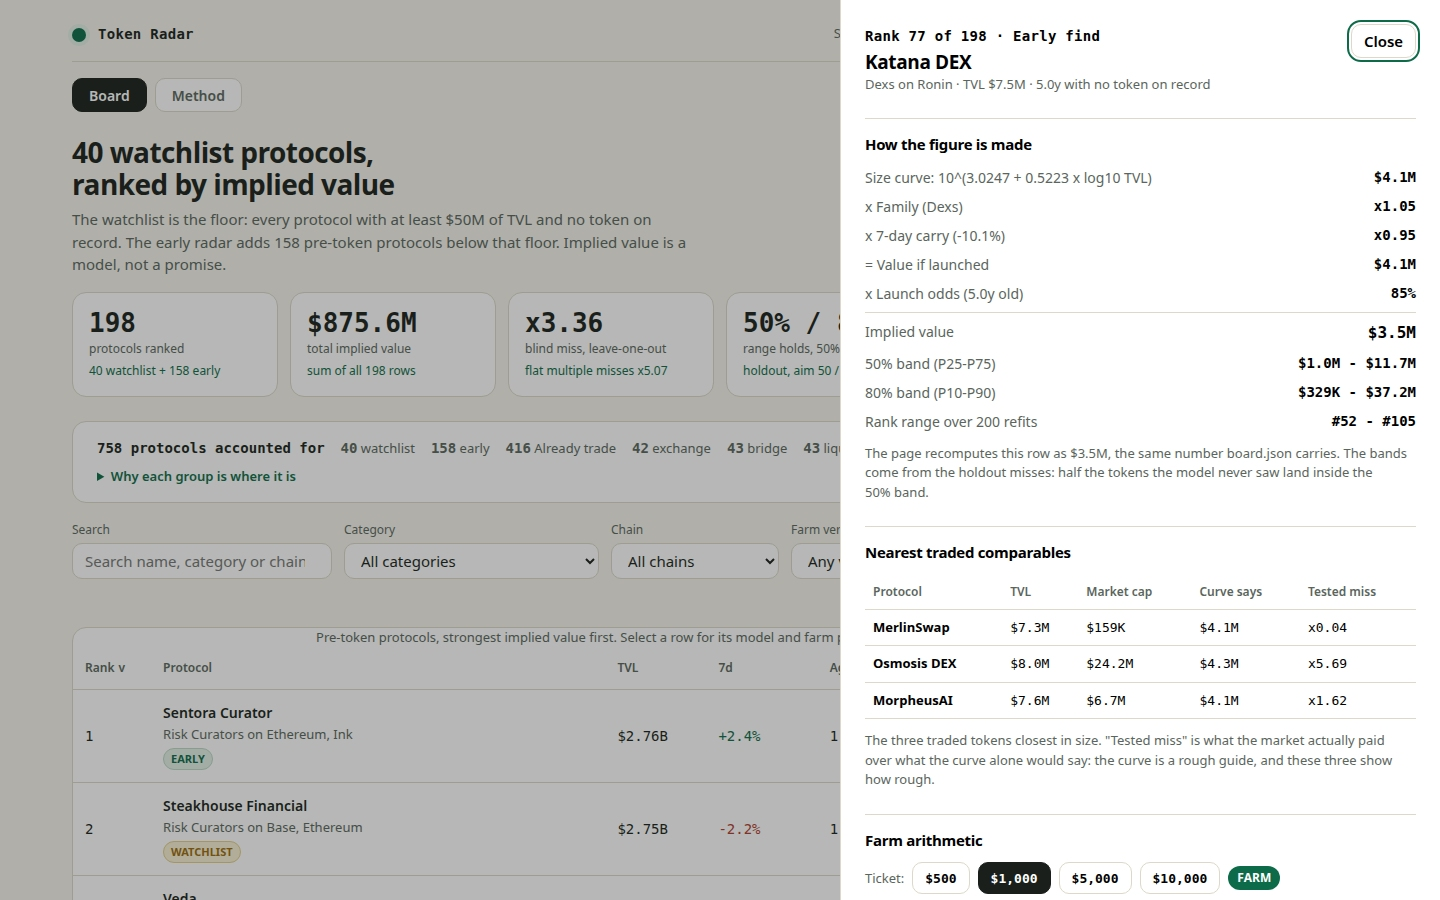
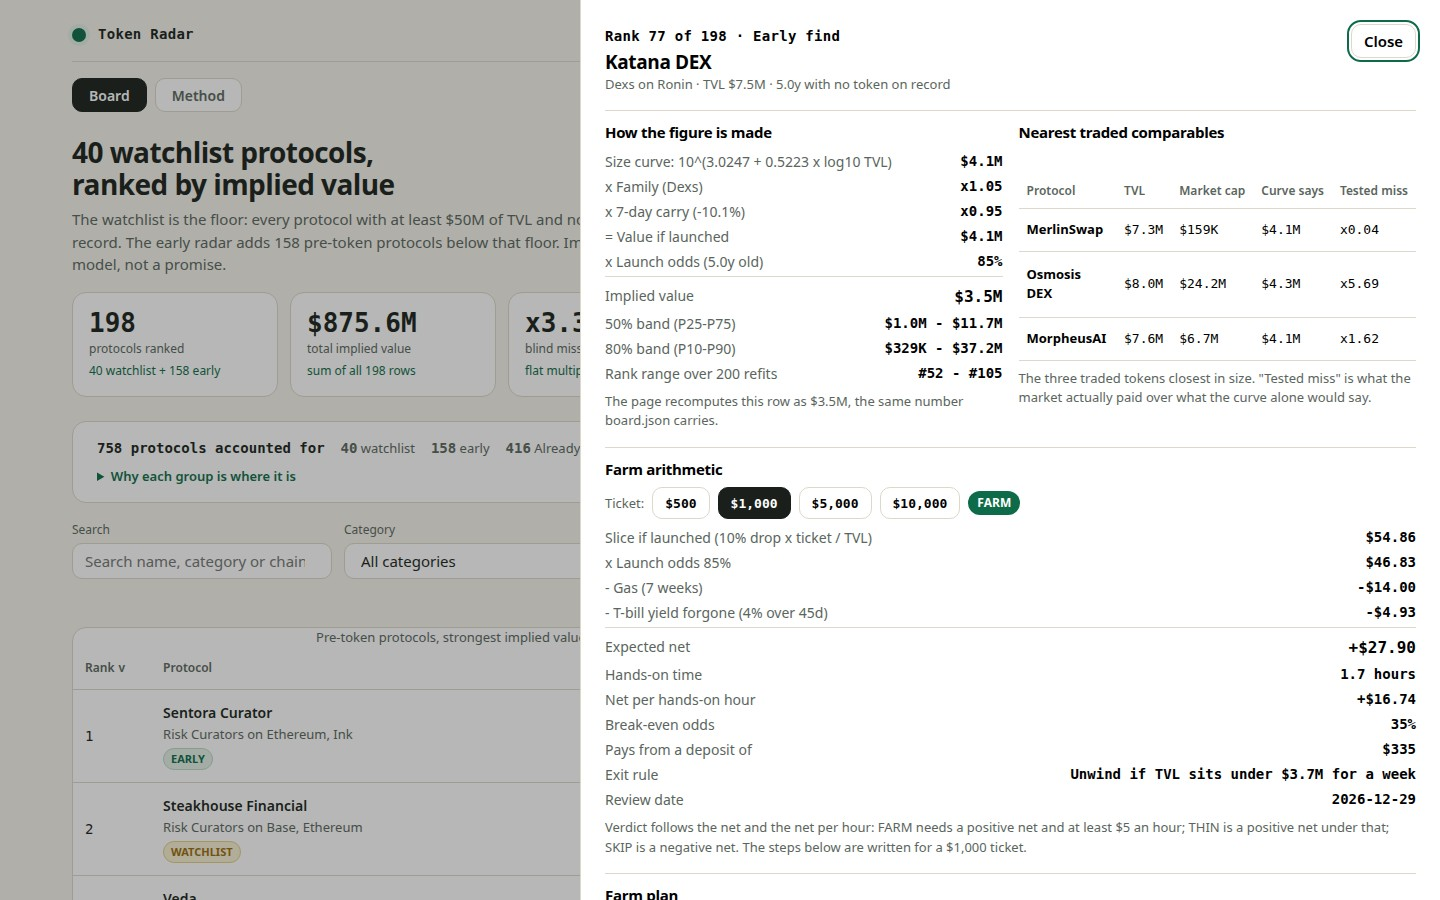
screenshots: add Method shot, re-shoot detail with farm arithmetic visible

Changed region(s): [[0.375, 0.0, 1.0, 1.0], [0.8125, 0.6533, 0.875, 0.7467], [0.875, 0.2489, 0.9062, 0.28]]

diff --git a/dashboard/app.js b/dashboard/app.js
@@ -596,7 +596,7 @@
       ),
       el('button', { class: 'close', type: 'button', 'aria-label': 'Close details', text: 'Close', onclick: function () { dialog.close(); } })
     ));
-    dialog.appendChild(el('section', { class: 'detail-section' },
+    var figSection = el('section', { class: 'detail-section' },
       el('h3', { text: 'How the figure is made' }),
       el('div', { class: 'waterfall' },
         waterfallRow('Size curve: 10^(' + MODEL.curve.intercept + ' + ' + MODEL.curve.slope + ' x log10 TVL)', fmtUsd(terms.size)),
@@ -610,8 +610,8 @@
         waterfallRow('80% band (P10-P90)', fmtUsd(row.band80_low_usd) + ' - ' + fmtUsd(row.band80_high_usd)),
         waterfallRow('Rank range over 200 refits', '#' + row.rank_lo + ' - #' + row.rank_hi)
       ),
-      el('p', { class: 'sub', text: 'The page recomputes this row as ' + fmtUsd(terms.implied) + (terms.implied === row.implied_value_usd ? ', the same number board.json carries.' : ', which differs from the board: the data would be stale.') + ' The bands come from the holdout misses: half the tokens the model never saw land inside the 50% band.' })
-    ));
+      el('p', { class: 'sub', text: 'The page recomputes this row as ' + fmtUsd(terms.implied) + (terms.implied === row.implied_value_usd ? ', the same number board.json carries.' : ', which differs from the board: the data would be stale.') })
+    );
     var compRows = row.nearest.map(function (c) {
       return el('tr', null,
         el('td', null, el('b', { text: c.name })),
@@ -621,14 +621,15 @@
         el('td', { class: 'num', text: 'x' + c.tested_miss_x.toFixed(2) })
       );
     });
-    dialog.appendChild(el('section', { class: 'detail-section' },
+    var compSection = el('section', { class: 'detail-section' },
       el('h3', { text: 'Nearest traded comparables' }),
       el('table', { class: 'mini-table' },
         el('thead', null, el('tr', null, el('th', { scope: 'col', text: 'Protocol' }), el('th', { scope: 'col', text: 'TVL' }), el('th', { scope: 'col', text: 'Market cap' }), el('th', { scope: 'col', text: 'Curve says' }), el('th', { scope: 'col', text: 'Tested miss' }))),
         el('tbody', null, compRows)
       ),
-      el('p', { class: 'sub', text: 'The three traded tokens closest in size. "Tested miss" is what the market actually paid over what the curve alone would say: the curve is a rough guide, and these three show how rough.' })
-    ));
+      el('p', { class: 'sub', text: 'The three traded tokens closest in size. "Tested miss" is what the market actually paid over what the curve alone would say.' })
+    );
+    dialog.appendChild(el('div', { class: 'detail-grid' }, figSection, compSection));
     dialog.appendChild(el('section', { class: 'detail-section' },
       el('h3', { text: 'Farm arithmetic' }),
       el('div', { class: 'ticket-row' }, el('span', { class: 'sub', text: 'Ticket:' }), ticketBtn(500), ticketBtn(1000), ticketBtn(5000), ticketBtn(10000), el('span', { class: 'verdict ' + plan.verdict, text: plan.verdict })),
@@ -726,7 +727,7 @@
     shell.appendChild(nav());
     shell.appendChild(el('section', { class: 'lede' },
       el('h1', { text: 'Method: the model, its test, and what it gets wrong' }),
-      el('p', { text: 'Everything below is computed from the snapshot by main.ts, not written by hand. The numbers on this page are the same ones the board is built from.' })
+      el('p', { text: 'Everything below is computed from the snapshot by main.ts, not written by hand. The numbers on this page are the same ones the board is built from. At a $1,000 ticket the board\'s verdicts are ' + DATA.verdictCounts.FARM + ' FARM, ' + DATA.verdictCounts.THIN + ' THIN and ' + DATA.verdictCounts.SKIP + ' SKIP.' })
     ));
     shell.appendChild(el('section', { class: 'panel panel-pad' },
       el('h2', { text: 'The formula' }),

diff --git a/dashboard/app.css b/dashboard/app.css
@@ -156,7 +156,7 @@ tbody tr[data-selected="true"] { background: var(--accent-soft); }
 .seal .bad { color: var(--negative); font-weight: 700; }
 
 .detail {
-  position: fixed; top: 0; right: 0; bottom: 0; width: min(600px, 94vw); z-index: 10;
+  position: fixed; top: 0; right: 0; bottom: 0; width: min(860px, 94vw); z-index: 10;
   background: var(--surface); border: 0; border-left: 1px solid var(--border); padding: var(--s5);
   overflow-y: auto; margin: 0 0 0 auto; max-height: 100%;
 }
@@ -166,8 +166,10 @@ tbody tr[data-selected="true"] { background: var(--accent-soft); }
 .detail-head .sub { overflow-wrap: anywhere; }
 .close { flex: none; min-height: 34px; padding: 0 var(--s3); white-space: nowrap; border: 1px solid var(--border); border-radius: var(--radius-m); background: var(--surface); font-weight: 600; }
 .detail h2 { margin-top: var(--s1); overflow-wrap: anywhere; }
-.detail-section { margin-top: var(--s5); padding-top: var(--s4); border-top: 1px solid var(--border); display: grid; gap: var(--s3); }
-.waterfall { display: grid; gap: var(--s2); font-size: 14px; }
+.detail-section { margin-top: var(--s4); padding-top: var(--s3); border-top: 1px solid var(--border); display: grid; gap: var(--s2); }
+.detail-grid { display: grid; grid-template-columns: minmax(0, 1fr) minmax(0, 1fr); gap: var(--s4); margin-top: var(--s4); padding-top: var(--s3); border-top: 1px solid var(--border); }
+.detail-grid .detail-section { margin-top: 0; padding-top: 0; border-top: 0; }
+.waterfall { display: grid; gap: var(--s1); font-size: 14px; }
 .waterfall div { display: flex; justify-content: space-between; gap: var(--s3); }
 .waterfall span { color: var(--muted); }
 .waterfall b { font-family: var(--font-num); font-weight: 600; text-align: right; }
@@ -194,7 +196,7 @@ tbody tr[data-selected="true"] { background: var(--accent-soft); }
 
 @media (max-width: 1100px) {
   .kpis { grid-template-columns: repeat(3, minmax(0, 1fr)); }
-  .grid-2, .method-grid { grid-template-columns: 1fr; }
+  .grid-2, .method-grid, .detail-grid { grid-template-columns: 1fr; }
 }
 @media (max-width: 900px) {
   .shell { padding: var(--s4); }
